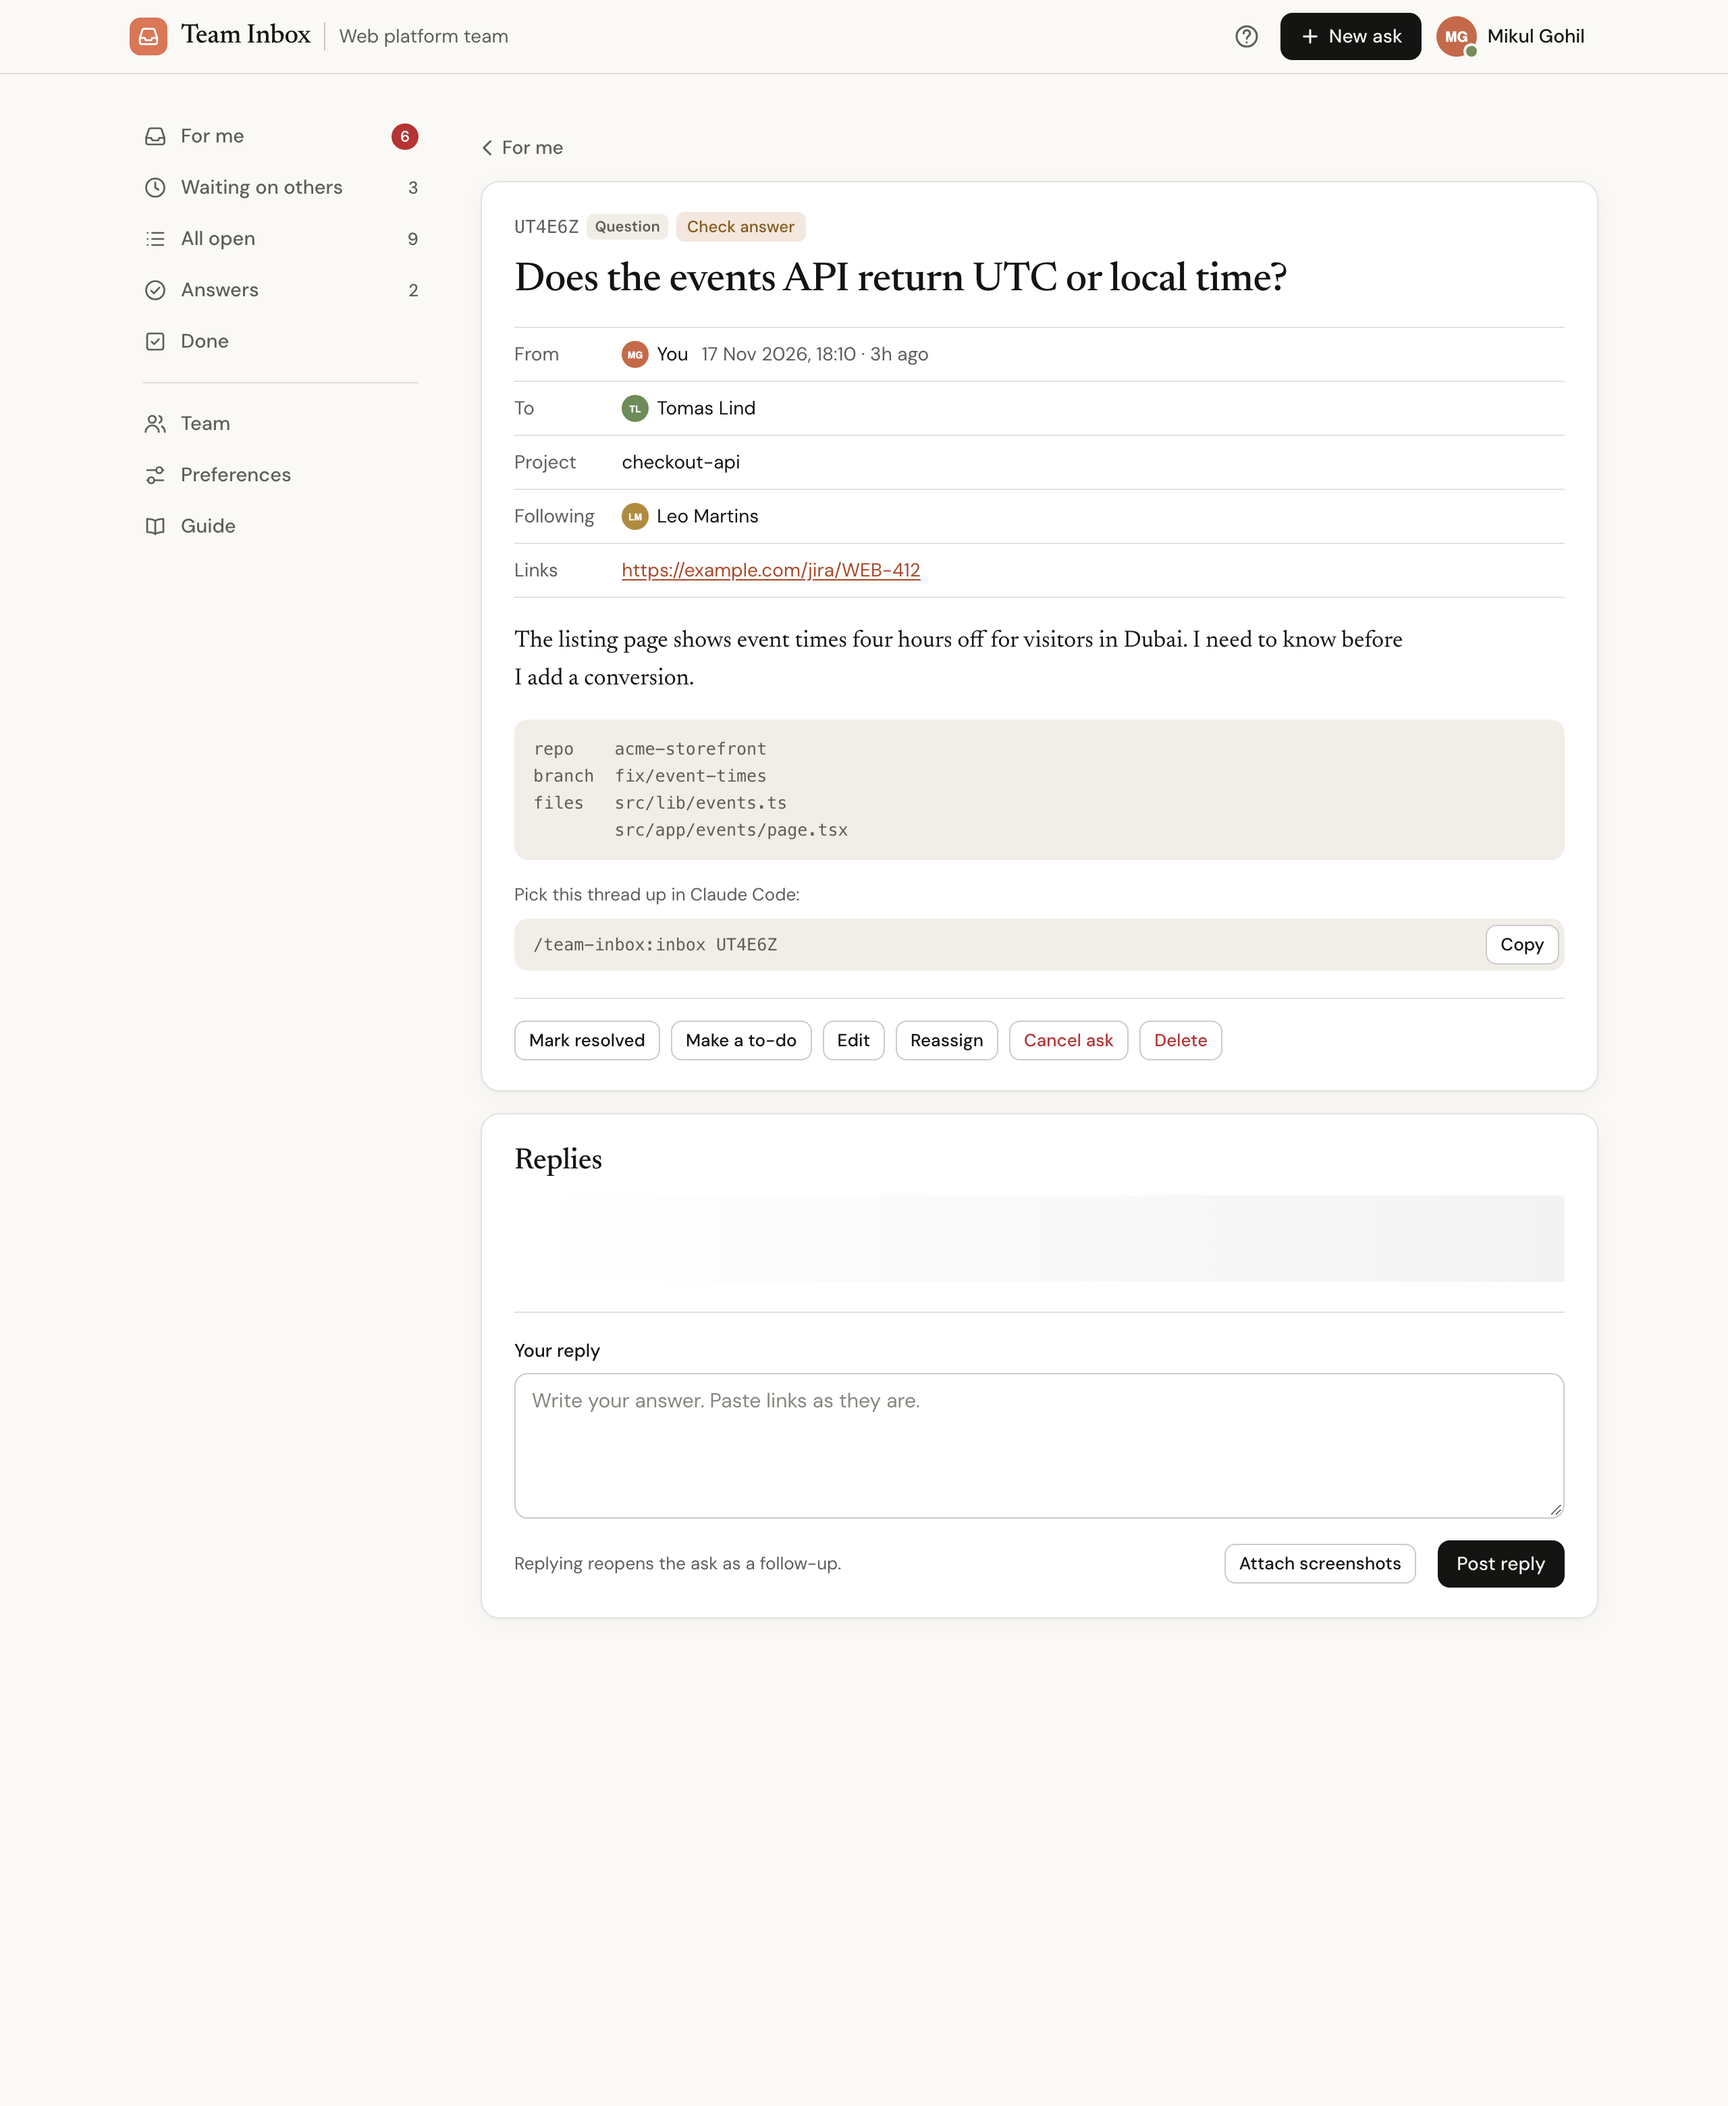
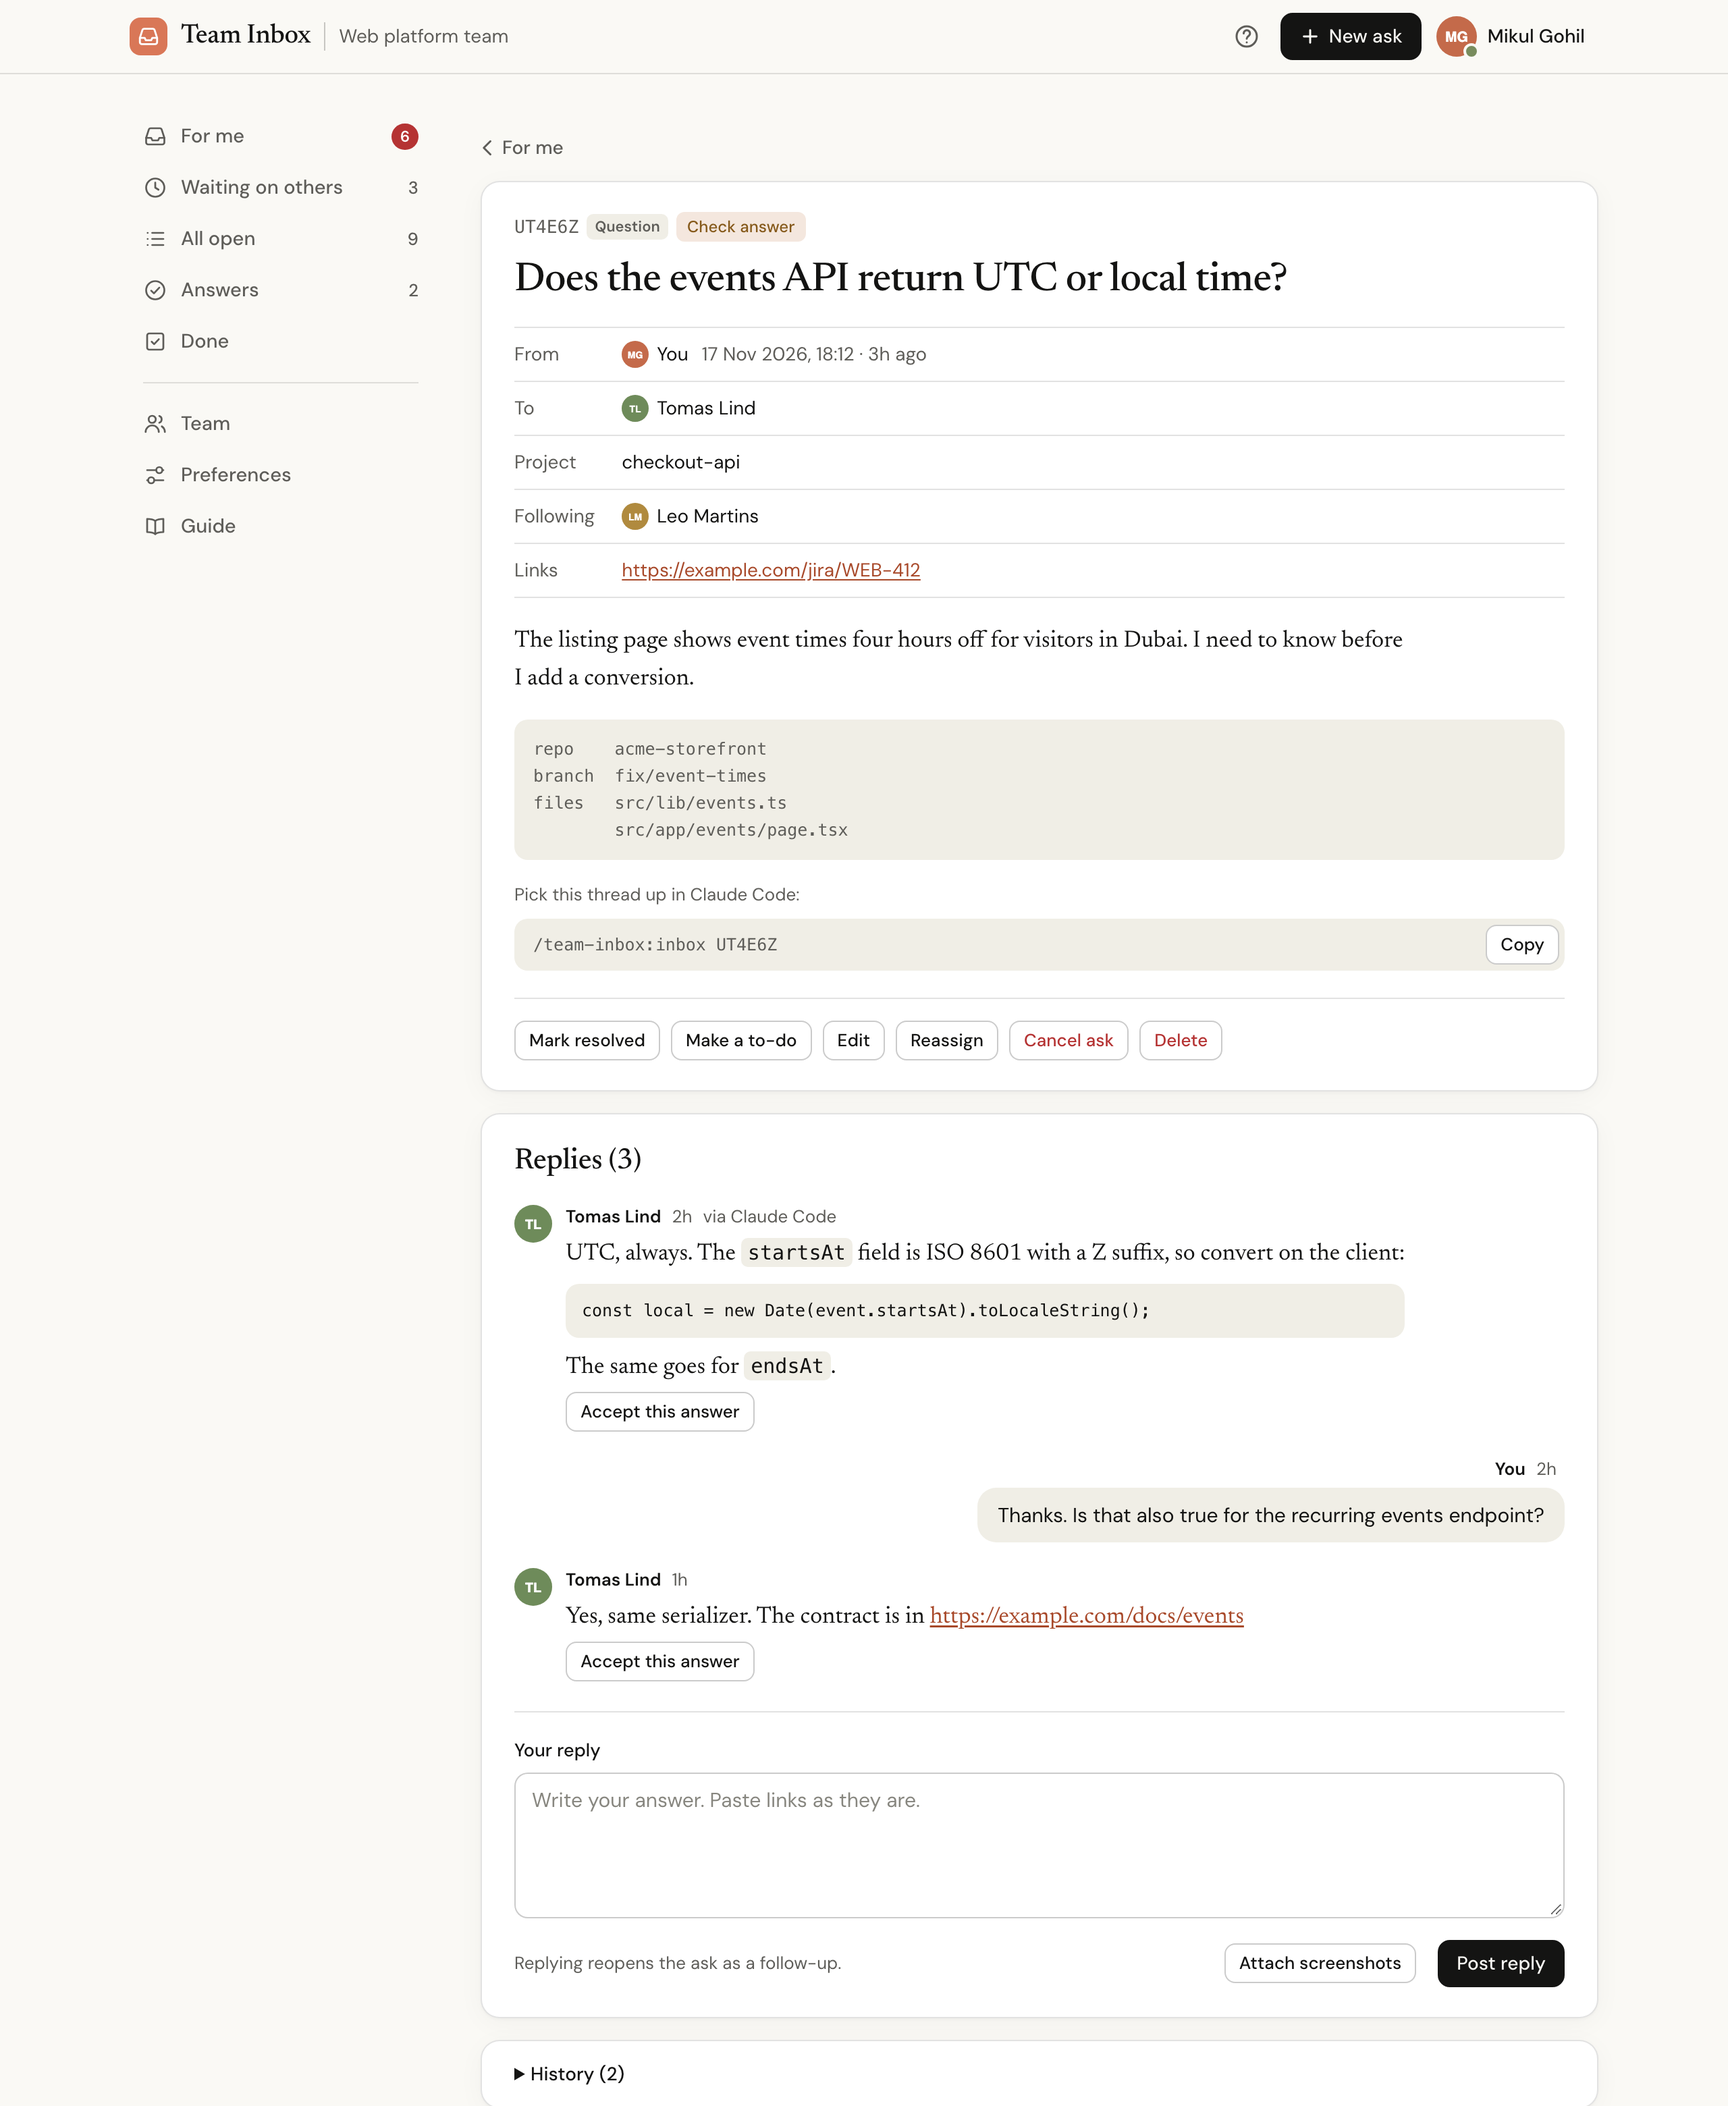
fix: never let a pending frame freeze the page
Redraws were batched through requestAnimationFrame alone. When a
frame never fired, as under headless Chrome's virtual clock, every
later redraw was dropped and the page froze mid-load; the README's
thread screenshot showed a loading bar. A 50 ms timer now backs up
the frame callback. Screenshots regenerated.

diff --git a/plugin/page/team-inbox.html b/plugin/page/team-inbox.html
@@ -713,7 +713,13 @@ function onKey(e) {
 }
 
 // ------------------------------------------------------------------ render
-function render() { if (S.raf) return; S.raf = requestAnimationFrame(() => { S.raf = 0; doRender(); }); }
+// Batch redraws into one per frame. A short timer backs up the frame callback: some contexts (headless
+// screenshots, throttled embedded frames) never fire it, and a pending frame would otherwise swallow every later redraw.
+function render() {
+  if (S.raf) return;
+  const run = () => { if (!S.raf) return; cancelAnimationFrame(S.raf.frame); clearTimeout(S.raf.timer); S.raf = 0; doRender(); };
+  S.raf = { frame: requestAnimationFrame(run), timer: setTimeout(run, 50) };
+}
 function doRender() { renderTop(); renderNav(); renderMain(); }
 
 function renderTop() {

diff --git a/docs/log.md b/docs/log.md
@@ -15,6 +15,7 @@ Hand-written decisions and verification notes, newest first.
   - `npm test`: 32 of 32, 6 new (to-do creation and fromAsk, start / done / reopen, can't do rules and secret scan, actions refused on the wrong kind, digest counts and flags, CLI flags).
   - In the interactive demo: For me with to-dos and Due today, Start (Doing, carry-on command), Mark done with a note (done box, Done list), Can't do (empty reason refused, reason shown), Make a to-do from an answered question, and the composer switching to New to-do. Phone width checked in a 390px frame: the five kinds fit on one row.
 - Not verified: the `/team-inbox:todo` skill run by a real Claude Code session against the live inbox, including loading a to-do into the session's task list.
+- Fixed after the push: the README's thread screenshot showed a loading bar. The page batched redraws through requestAnimationFrame, which headless Chrome's virtual clock does not always fire; one pending frame then swallowed every later redraw, so the page froze mid-load. `render()` now also schedules a 50 ms timer and runs on whichever fires first. Checked with 9 headless loads (3 runs at 3 time budgets): all complete, where before they varied. Real browsers were not affected in testing, but a throttled embedded frame could be.
 - Note for future screenshots: headless Chrome will not make a window narrower than about 500px, so a 390px `--window-size` crops the page. Check phone layouts inside a 390px iframe (as `phones.html` does).
 
 ## 2026-11-17 (local, Agent SDK research)
